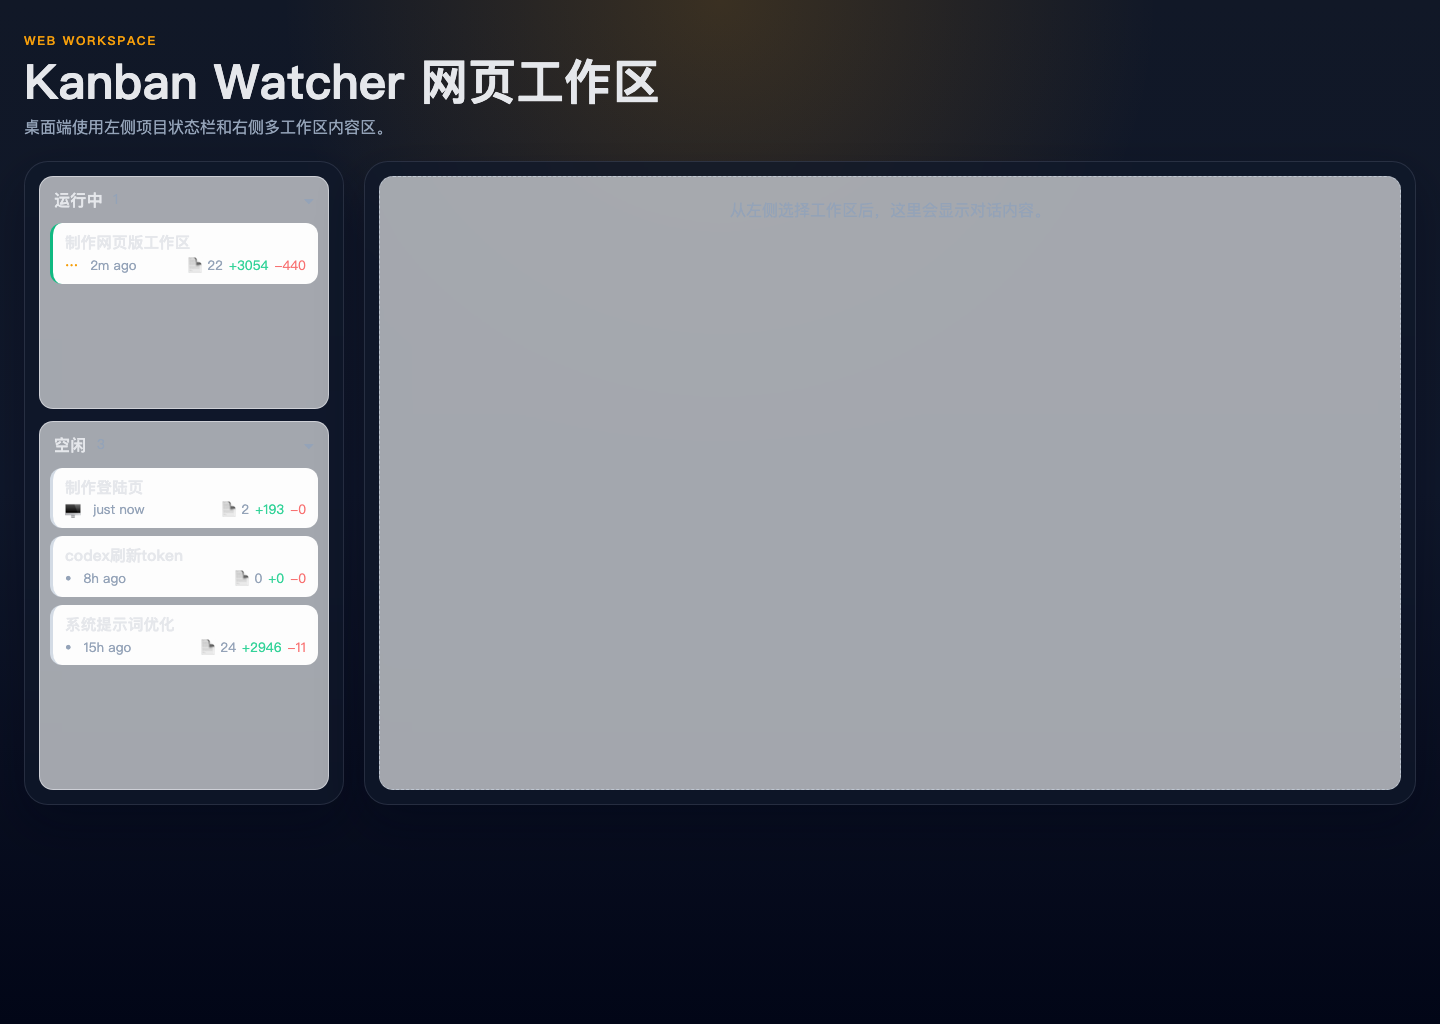
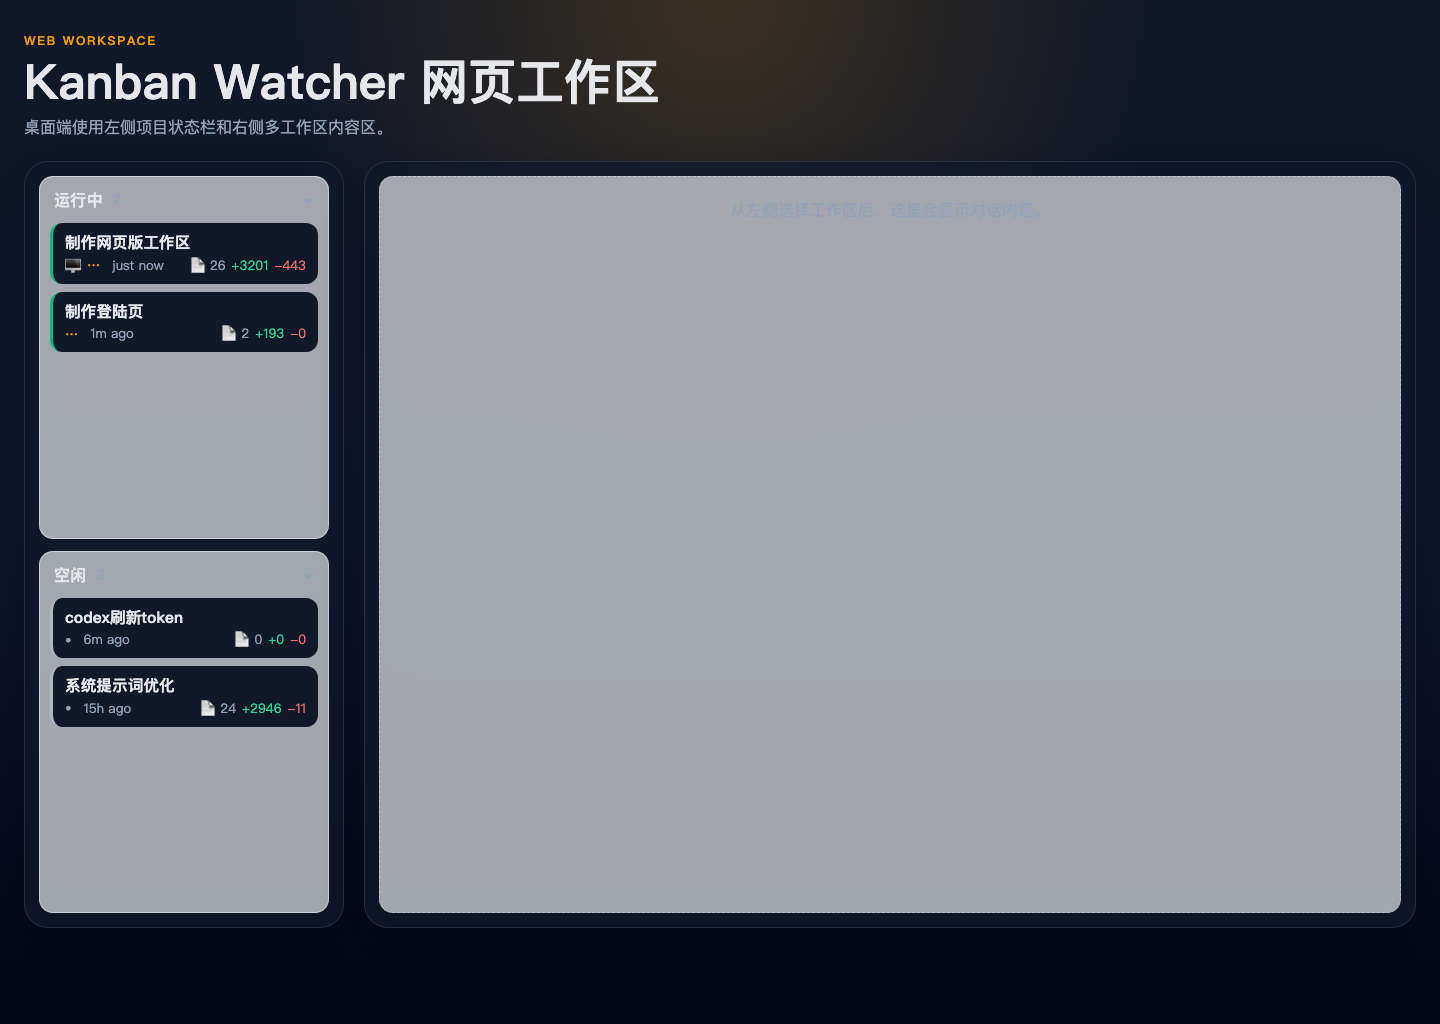
fix: 优化工作区窗格滚动与暗色样式

Changed region(s): [[0.0, 0.75, 1.0, 0.9062], [0.0312, 0.375, 0.25, 0.7188], [0.0312, 0.2188, 0.2188, 0.3438]]

diff --git a/src/styles.ts b/src/styles.ts
@@ -61,7 +61,11 @@ export const workspaceSectionListStyles = css`
     width: 100%;
     padding: 10px 12px;
     border-radius: 12px;
-    background: color-mix(in srgb, var(--ha-card-background, var(--card-background-color, #ffffff)) 82%, var(--secondary-background-color, #f3f4f6));
+    background: color-mix(
+      in srgb,
+      var(--ha-card-background, var(--card-background-color, #111827)) 82%,
+      var(--secondary-background-color, #0f172a)
+    );
     border-left: 3px solid color-mix(in srgb, var(--divider-color, #cbd5e1) 85%, transparent);
     border-top: 0;
     border-right: 0;
@@ -219,7 +223,7 @@ export const workspaceHomeStyles = css`
     display: grid;
     grid-template-columns: 320px minmax(0, 1fr);
     gap: 20px;
-    align-items: start;
+    align-items: stretch;
   }
 
   .workspace-home-sidebar,
@@ -236,15 +240,21 @@ export const workspaceHomeStyles = css`
     padding: 14px;
     display: grid;
     gap: 12px;
-    min-height: 60vh;
+    height: min(72vh, 960px);
+    min-height: min(72vh, 960px);
+    overflow-y: auto;
   }
 
   .workspace-home-pane-grid {
-    min-height: 60vh;
+    height: min(72vh, 960px);
+    min-height: min(72vh, 960px);
     padding: 14px;
     display: grid;
     grid-template-columns: repeat(var(--workspace-pane-columns, 1), minmax(0, 1fr));
+    grid-auto-rows: minmax(0, 1fr);
+    align-items: stretch;
     gap: 12px;
+    overflow: hidden;
   }
 
   .workspace-home-placeholder {
@@ -265,6 +275,8 @@ export const workspaceHomeStyles = css`
 export const cardStyles = css`
   :host {
     display: block;
+    height: 100%;
+    min-height: 0;
   }
 
   /* 响应式字体大小变量 */
@@ -295,7 +307,7 @@ export const cardStyles = css`
   ha-card {
     background:
       radial-gradient(circle at top right, color-mix(in srgb, var(--warning-color, #f59e0b) 12%, transparent), transparent 25%),
-      var(--ha-card-background, var(--card-background-color, #ffffff));
+      var(--ha-card-background, var(--card-background-color, #111827));
     border: 1px solid color-mix(in srgb, var(--divider-color, #e5e7eb) 70%, transparent);
     border-radius: 20px;
     box-shadow: var(--ha-card-box-shadow, 0 2px 6px rgba(0, 0, 0, 0.12));
@@ -368,7 +380,11 @@ export const cardStyles = css`
     width: 100%;
     padding: 10px 12px;
     border-radius: 12px;
-    background: color-mix(in srgb, var(--ha-card-background, var(--card-background-color, #ffffff)) 82%, var(--secondary-background-color, #f3f4f6));
+    background: color-mix(
+      in srgb,
+      var(--ha-card-background, var(--card-background-color, #111827)) 82%,
+      var(--secondary-background-color, #0f172a)
+    );
     border-left: 3px solid color-mix(in srgb, var(--divider-color, #cbd5e1) 85%, transparent);
     border-top: 0;
     border-right: 0;
@@ -550,6 +566,14 @@ export const cardStyles = css`
     font-size: 0.9rem;
     font-weight: 700;
     color: var(--secondary-text-color, #64748b);
+  }
+
+  .workspace-pane-shell {
+    height: 100%;
+    min-height: 0;
+    display: grid;
+    grid-template-rows: auto minmax(0, 1fr) auto;
+    gap: 12px;
   }
 
   .message-list {
@@ -1161,7 +1185,7 @@ export const cardStyles = css`
     padding: 10px 12px;
     border-radius: 10px;
     border: 1px solid color-mix(in srgb, var(--divider-color, #cbd5e1) 72%, transparent);
-    background: color-mix(in srgb, var(--ha-card-background, #ffffff) 92%, transparent);
+    background: color-mix(in srgb, var(--ha-card-background, #111827) 92%, transparent);
     color: inherit;
     font: inherit;
     line-height: 1.4;

diff --git a/tests/workspace-conversation-pane.test.ts b/tests/workspace-conversation-pane.test.ts
@@ -2,6 +2,7 @@ import { afterEach, describe, expect, it } from "vitest";
 
 import "../src/components/workspace-conversation-pane";
 import type { WorkspaceConversationPane } from "../src/components/workspace-conversation-pane";
+import { cardStyles } from "../src/styles";
 import type { WorkspaceQueueStatusResponse } from "../src/types";
 
 type PaneMessage =
@@ -59,5 +60,41 @@ describe("workspace-conversation-pane", () => {
     expect(element.shadowRoot?.textContent).toContain("继续执行");
     expect(element.shadowRoot?.querySelector(".message-input")).not.toBeNull();
     expect(element.shadowRoot?.textContent).toContain("消息已同步");
+  });
+
+  it("scrolls the message list to the bottom when messages change", async () => {
+    const element = createElement();
+
+    await element.updateComplete;
+
+    const messageList = element.shadowRoot?.querySelector(".message-list") as HTMLDivElement;
+    Object.defineProperty(messageList, "scrollHeight", {
+      configurable: true,
+      value: 480,
+    });
+    messageList.scrollTop = 0;
+
+    element.messages = [
+      ...element.messages,
+      {
+        kind: "message",
+        sender: "ai",
+        text: "新的同步消息",
+      } satisfies PaneMessage,
+    ];
+    await element.updateComplete;
+
+    expect(messageList.scrollTop).toBe(480);
+  });
+
+  it("uses dark-friendly pane styles with fixed-height scrolling content", () => {
+    const cssText = Array.isArray(cardStyles)
+      ? cardStyles.map((style) => style.cssText).join("\n")
+      : cardStyles.cssText;
+
+    expect(cssText).toContain(".message-list");
+    expect(cssText).toContain("overflow-y: auto");
+    expect(cssText).toContain("height: 100%");
+    expect(cssText).toContain("var(--card-background-color, #111827)");
   });
 });

diff --git a/tests/workspace-home.test.ts b/tests/workspace-home.test.ts
@@ -6,6 +6,7 @@ import {
   getPaneColumns,
   resolveWorkspaceHomeMode,
 } from "../src/web/workspace-home";
+import { workspaceHomeStyles, workspaceSectionListStyles } from "../src/styles";
 
 function setWindowWidth(width: number) {
   Object.defineProperty(window, "innerWidth", {
@@ -82,6 +83,19 @@ describe("workspace home helpers", () => {
     expect(getPaneColumns(3)).toBe(3);
     expect(getPaneColumns(4)).toBe(4);
     expect(getPaneColumns(5)).toBe(4);
+  });
+
+  it("keeps desktop panes inside a fixed-height grid and uses dark card fallbacks", () => {
+    const homeCssText = Array.isArray(workspaceHomeStyles)
+      ? workspaceHomeStyles.map((style) => style.cssText).join("\n")
+      : workspaceHomeStyles.cssText;
+    const listCssText = Array.isArray(workspaceSectionListStyles)
+      ? workspaceSectionListStyles.map((style) => style.cssText).join("\n")
+      : workspaceSectionListStyles.cssText;
+
+    expect(homeCssText).toContain(".workspace-home-pane-grid");
+    expect(homeCssText).toContain("height: min(72vh, 960px)");
+    expect(listCssText).toContain("var(--card-background-color, #111827)");
   });
 
   it("refreshes latest messages for every opened pane on the desktop interval", async () => {

diff --git a/src/components/workspace-conversation-pane.ts b/src/components/workspace-conversation-pane.ts
@@ -79,6 +79,7 @@ export class WorkspaceConversationPane extends LitElement {
     const isQueued = this.queueStatus?.status === "queued";
 
     return html`
+      <section class="workspace-pane-shell">
       <div class="dialog-header">
         <div class="dialog-heading">
           <h2 class="dialog-title">${this.workspaceName}</h2>
@@ -138,7 +139,14 @@ export class WorkspaceConversationPane extends LitElement {
           ${this.currentFeedback}
         </div>
       </div>
+      </section>
     `;
+  }
+
+  protected updated(changedProperties: Map<PropertyKey, unknown>) {
+    if (changedProperties.has("messages")) {
+      this.scrollMessagesToBottom();
+    }
   }
 
   private renderQuickButtons() {
@@ -239,6 +247,14 @@ export class WorkspaceConversationPane extends LitElement {
       }),
     );
   };
+
+  private scrollMessagesToBottom() {
+    const messageList = this.shadowRoot?.querySelector(".message-list") as HTMLDivElement | null;
+    if (!messageList) {
+      return;
+    }
+    messageList.scrollTop = messageList.scrollHeight;
+  }
 }
 
 declare global {
